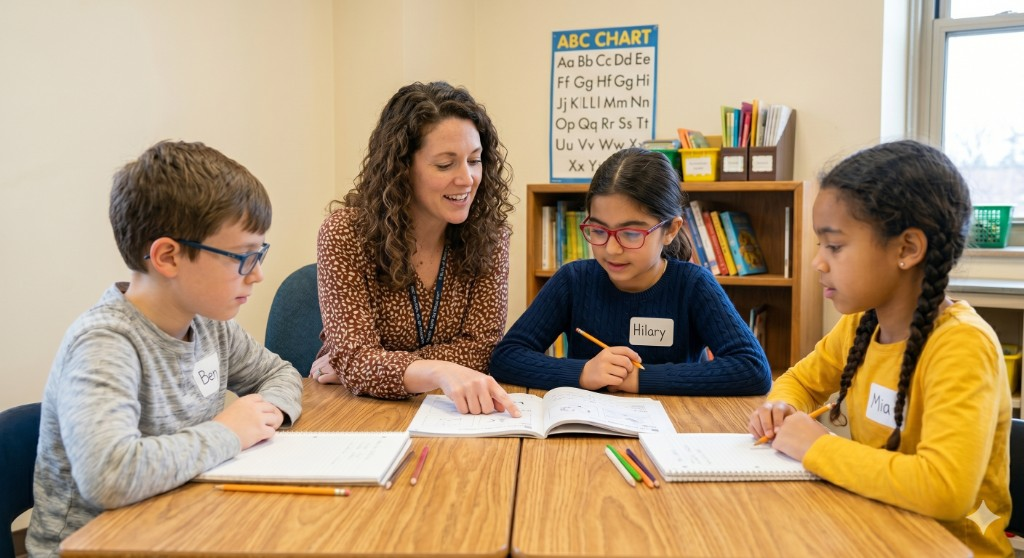
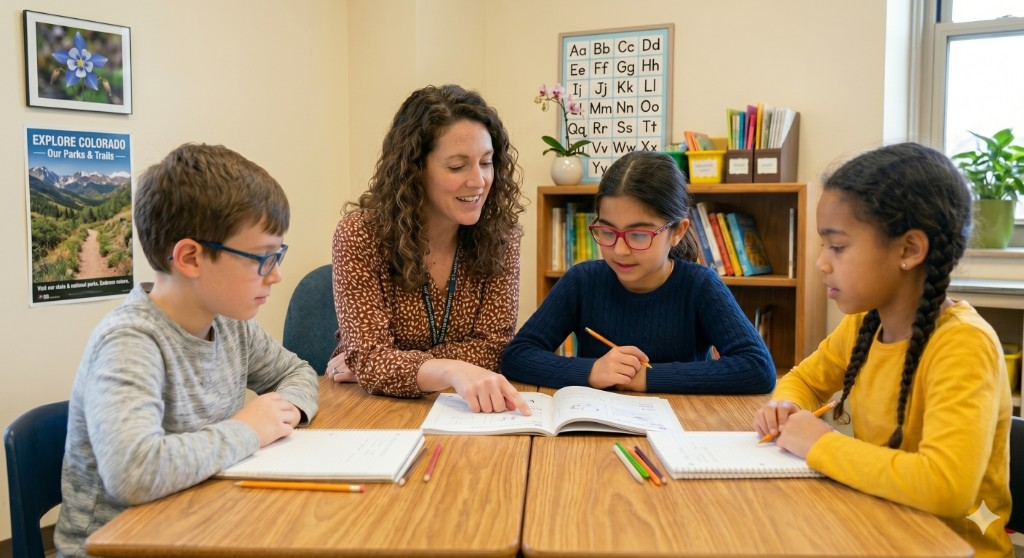
chore: update hero classroom photo and cache-bust URL
Made-with: Cursor

diff --git a/index.html b/index.html
@@ -170,7 +170,7 @@ function Nav({ dark, accent }) {
 }
 
 // Hero
-const HERO_CLASSROOM_BG = "Assets/hero-classroom.png";
+const HERO_CLASSROOM_BG = "Assets/hero-classroom.png?v=2";
 
 function Hero({ dark, accent, heroStyle }) {
   /* Photo only behind headline block; screenshot sits on plain section bg below */
